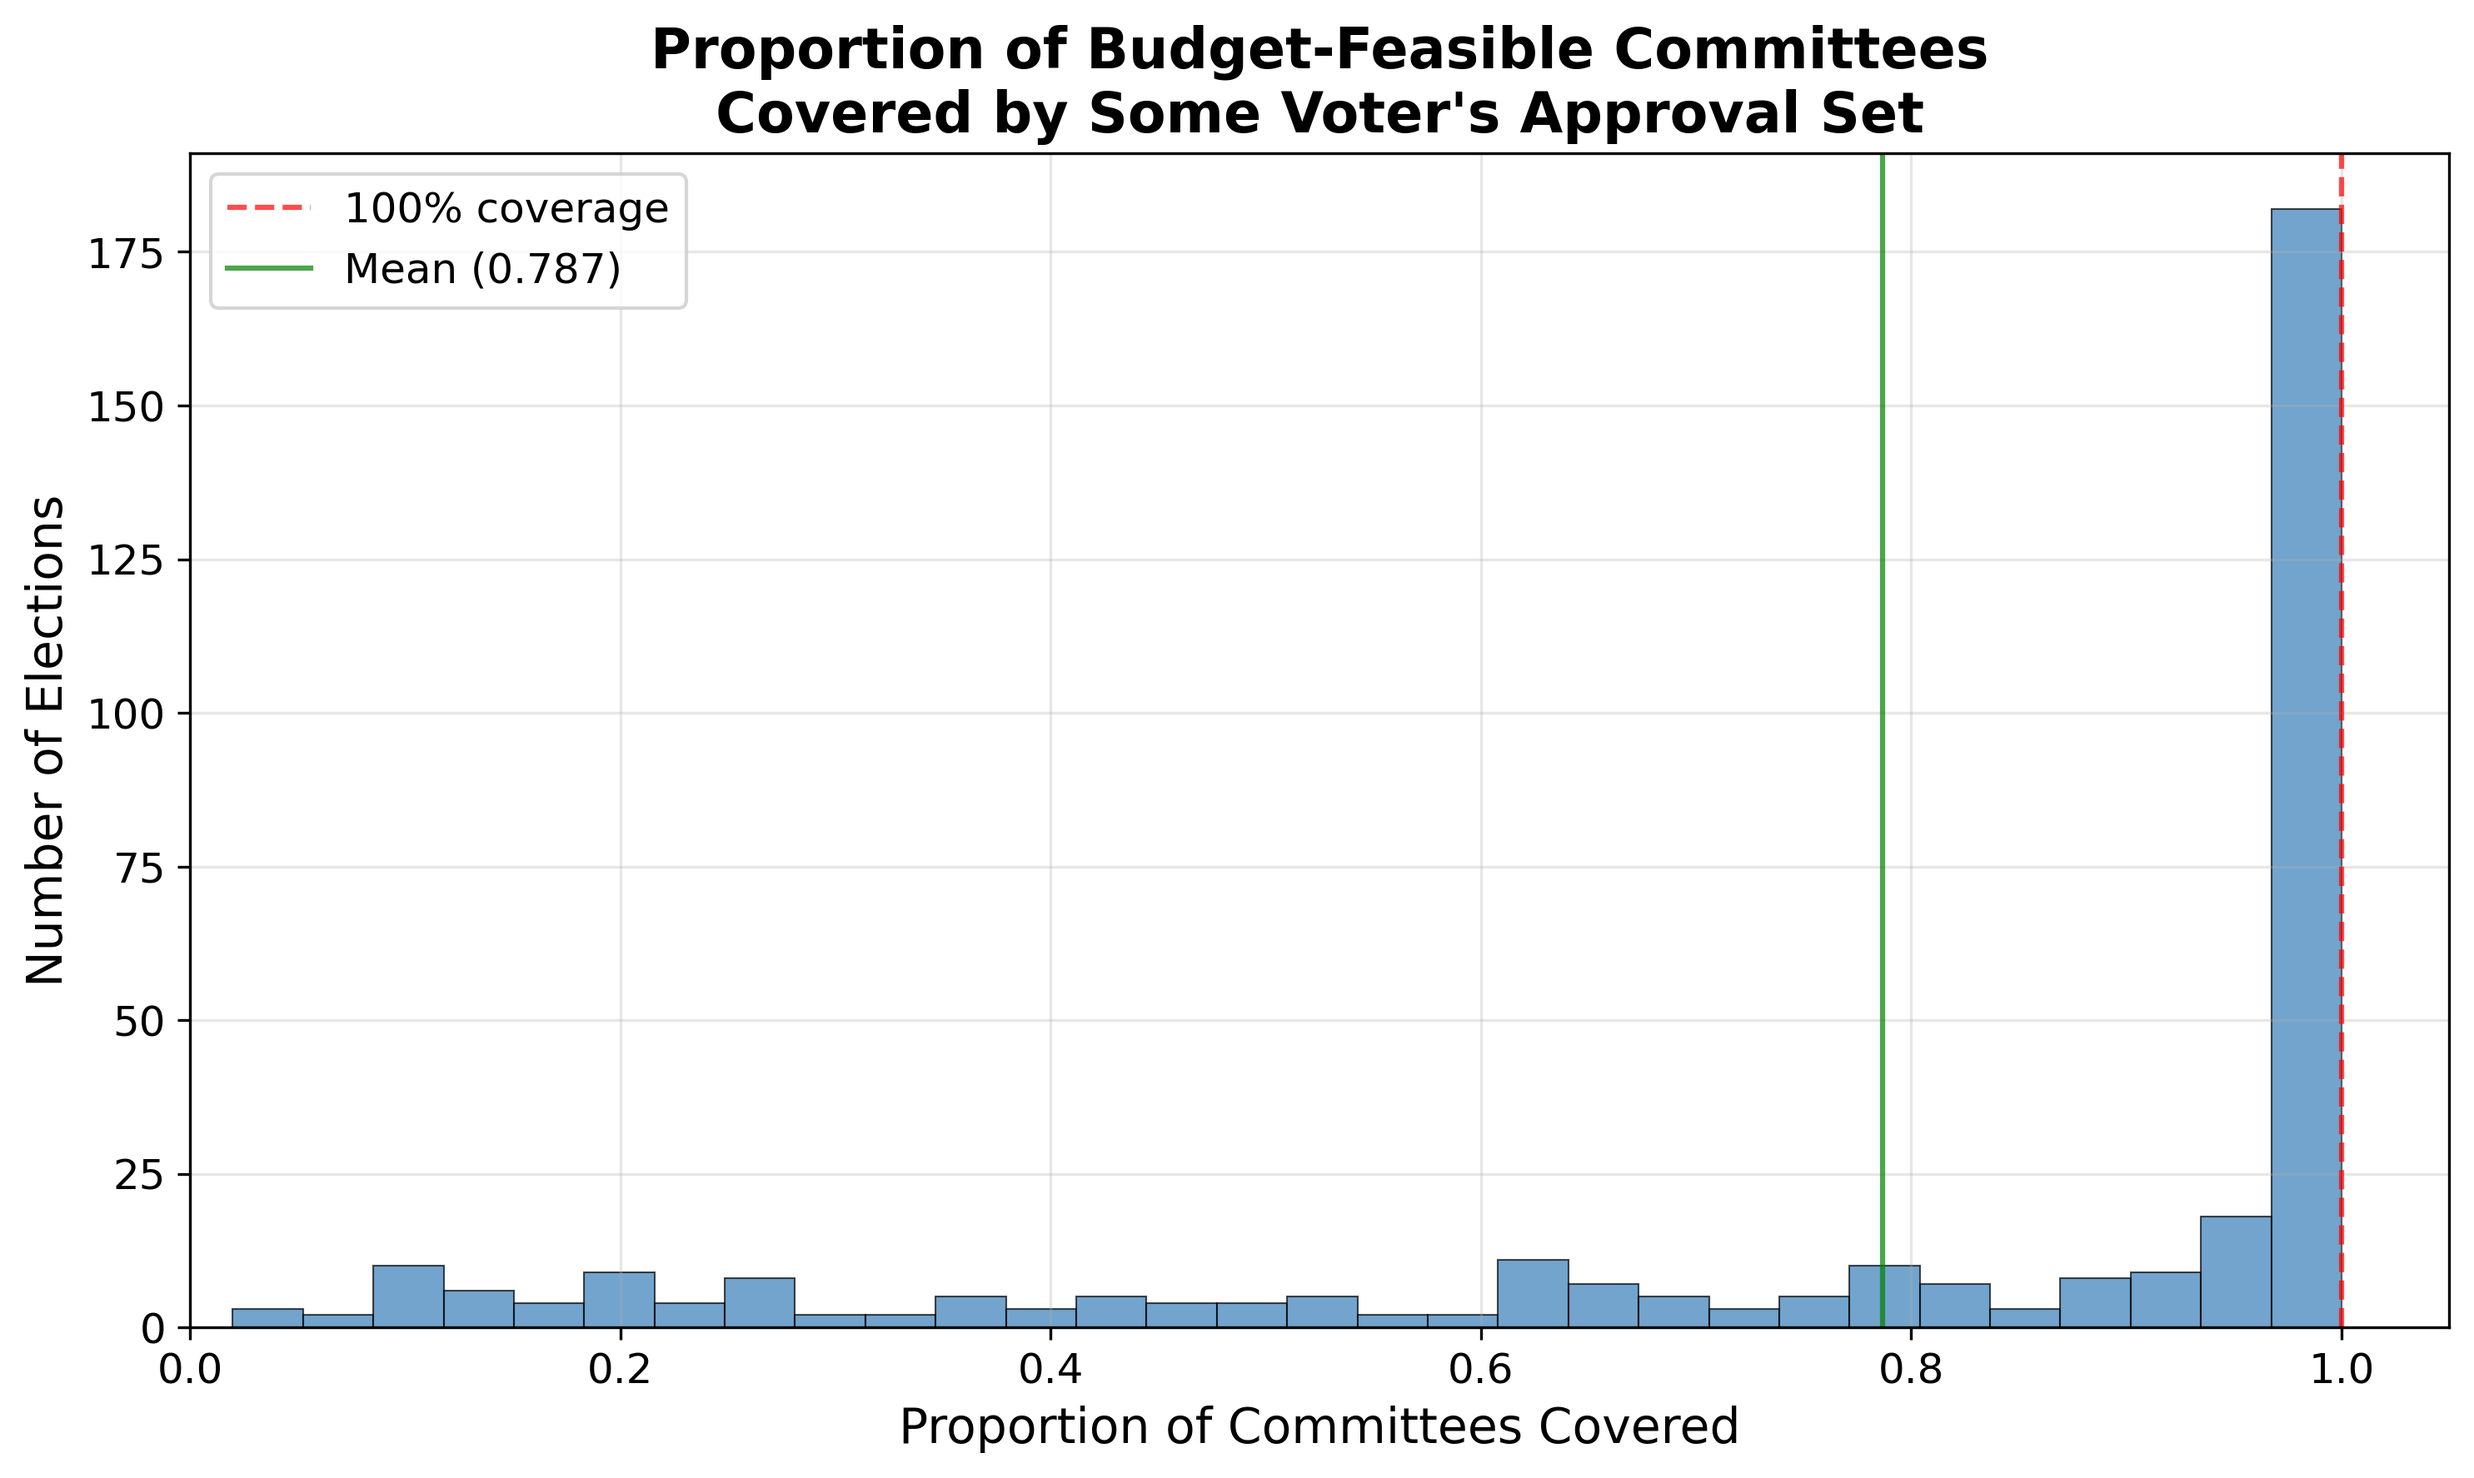
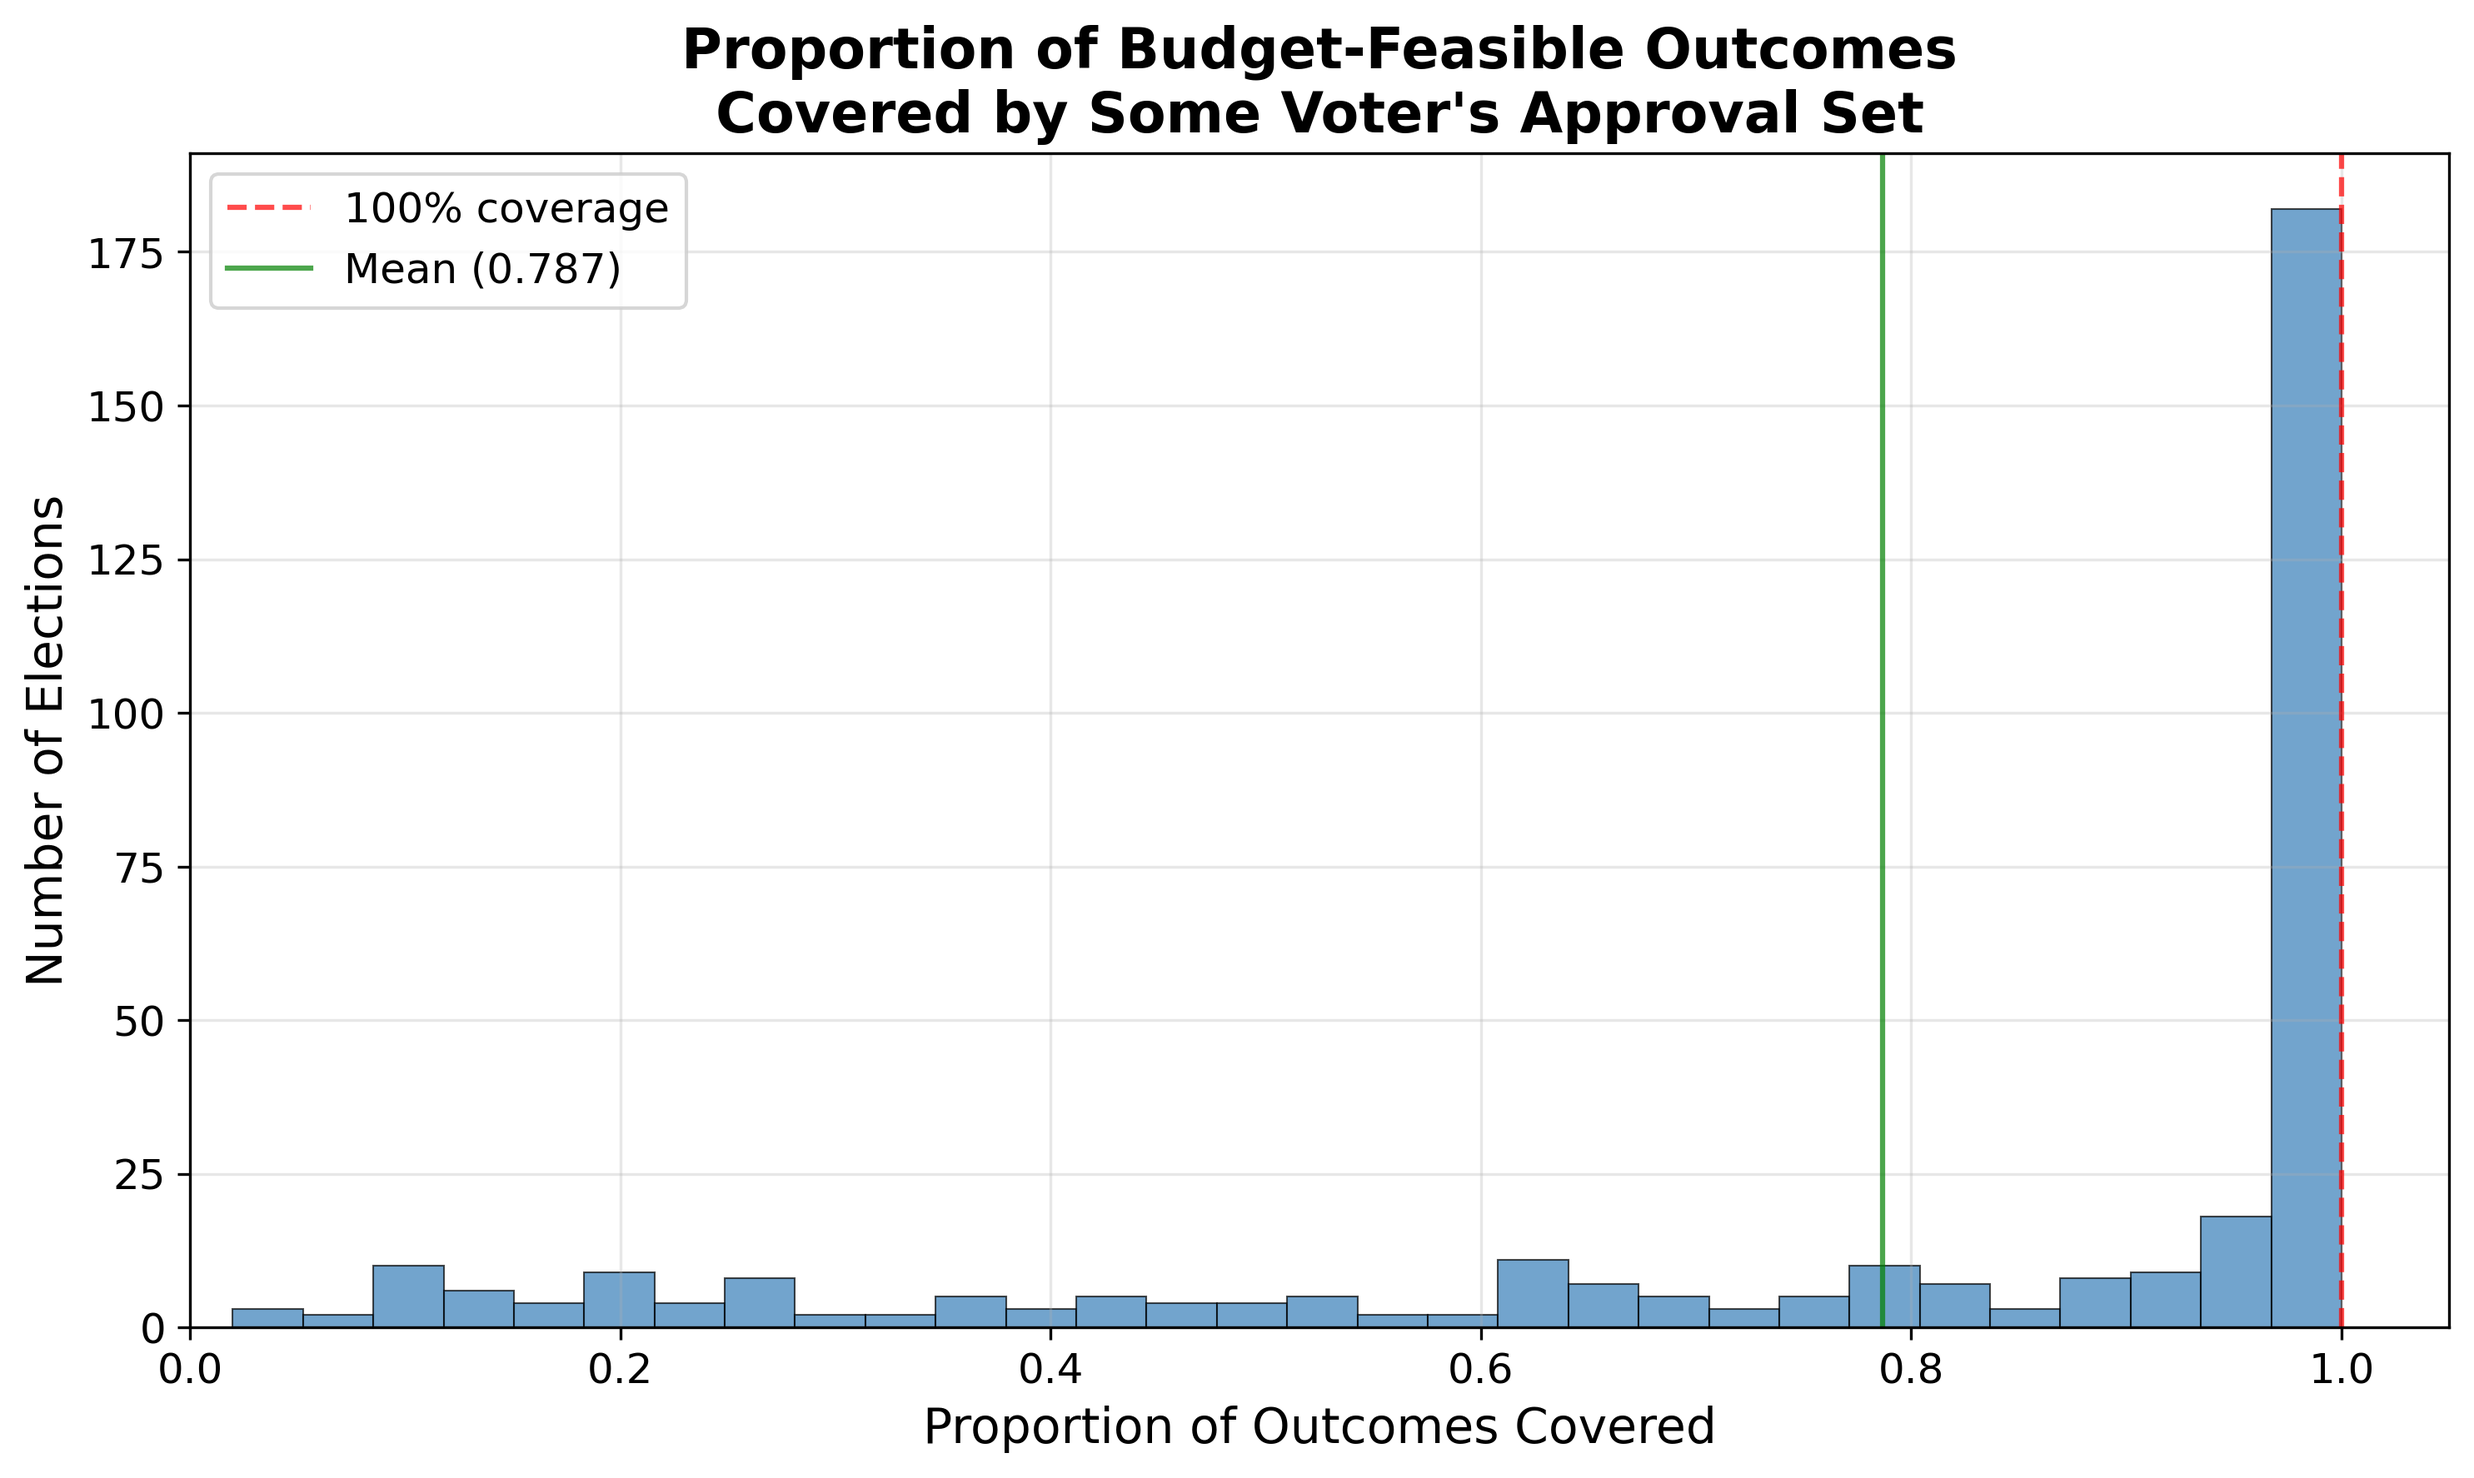
update superset plot

Changed region(s): [[0.2478, 0.0, 0.8054, 0.062], [0.3717, 0.9296, 0.7125, 0.9915]]

diff --git a/scripts/plot_subset_superset_coverage.py b/scripts/plot_subset_superset_coverage.py
@@ -161,10 +161,10 @@ def main():
         linewidth=0.5,
     )
     
-    ax.set_xlabel("Proportion of Committees Covered", fontsize=14)
+    ax.set_xlabel("Proportion of Outcomes Covered", fontsize=14)
     ax.set_ylabel("Number of Elections", fontsize=14)
     ax.set_title(
-        "Proportion of Budget-Feasible Committees\nCovered by Some Voter's Approval Set",
+        "Proportion of Budget-Feasible Outcomes\nCovered by Some Voter's Approval Set",
         fontsize=16,
         fontweight="bold",
     )
